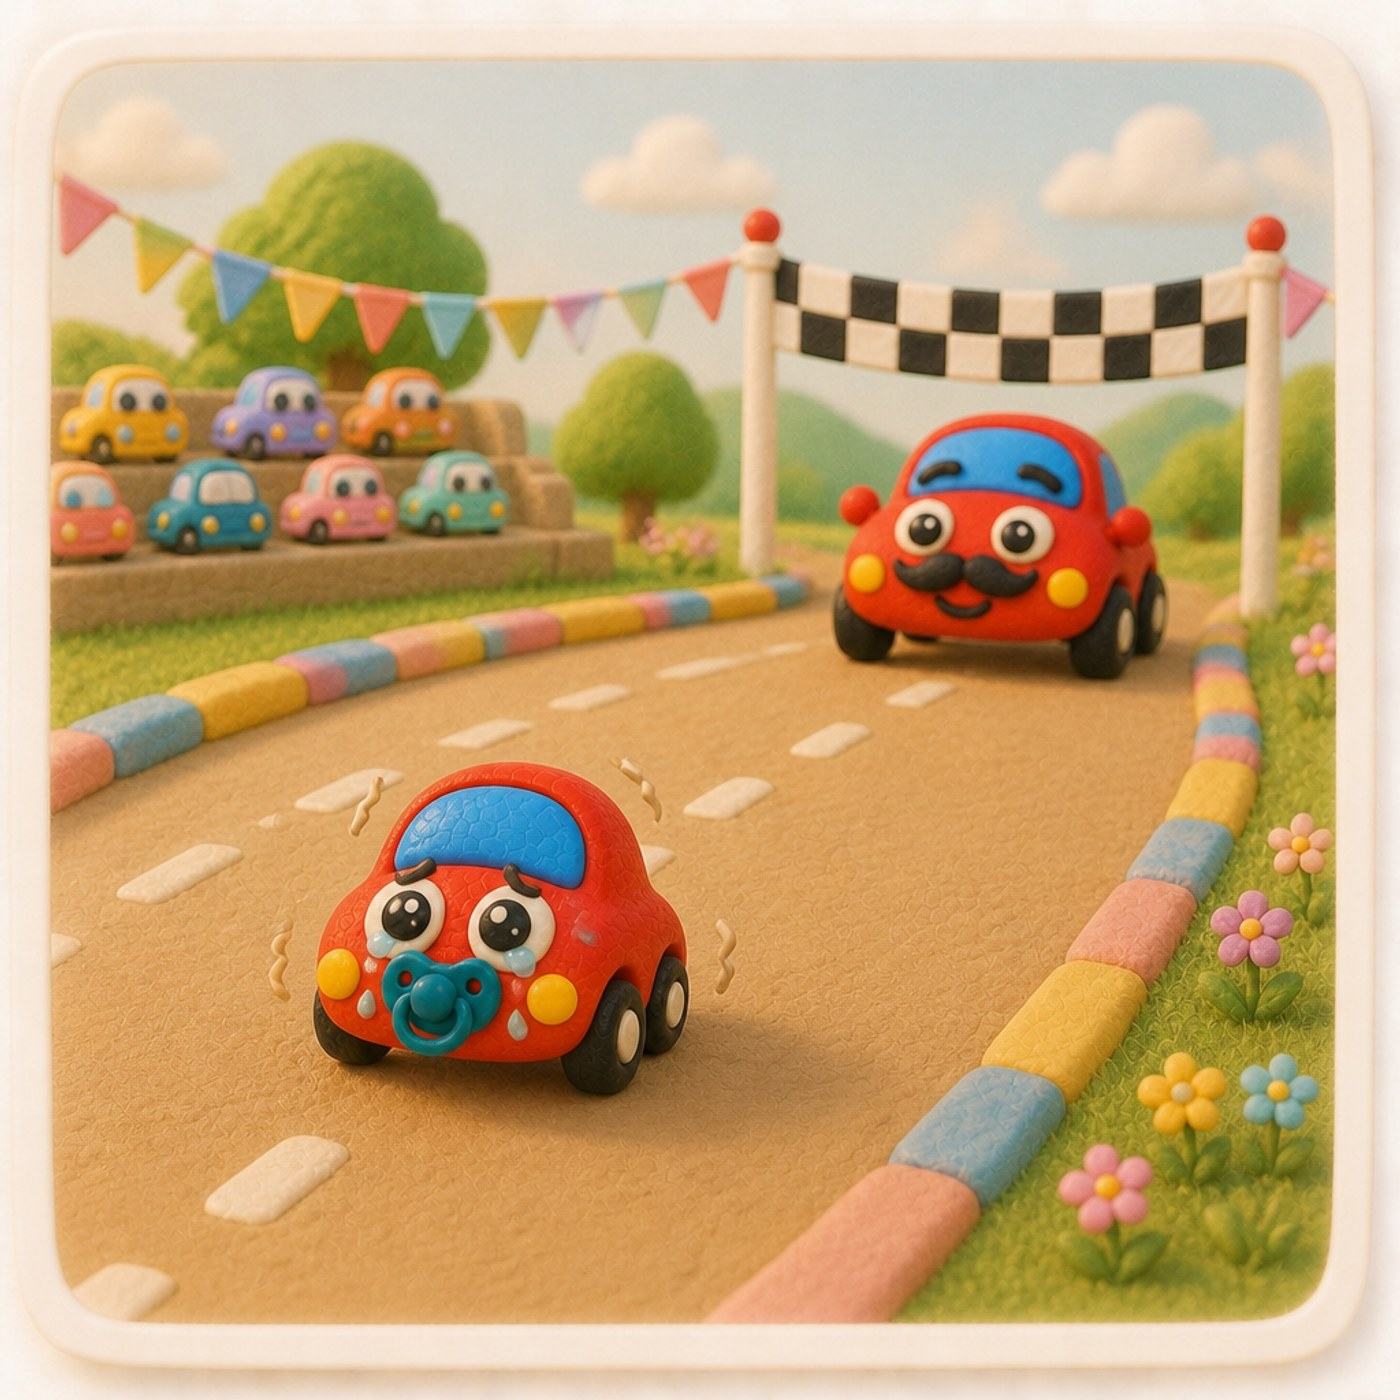
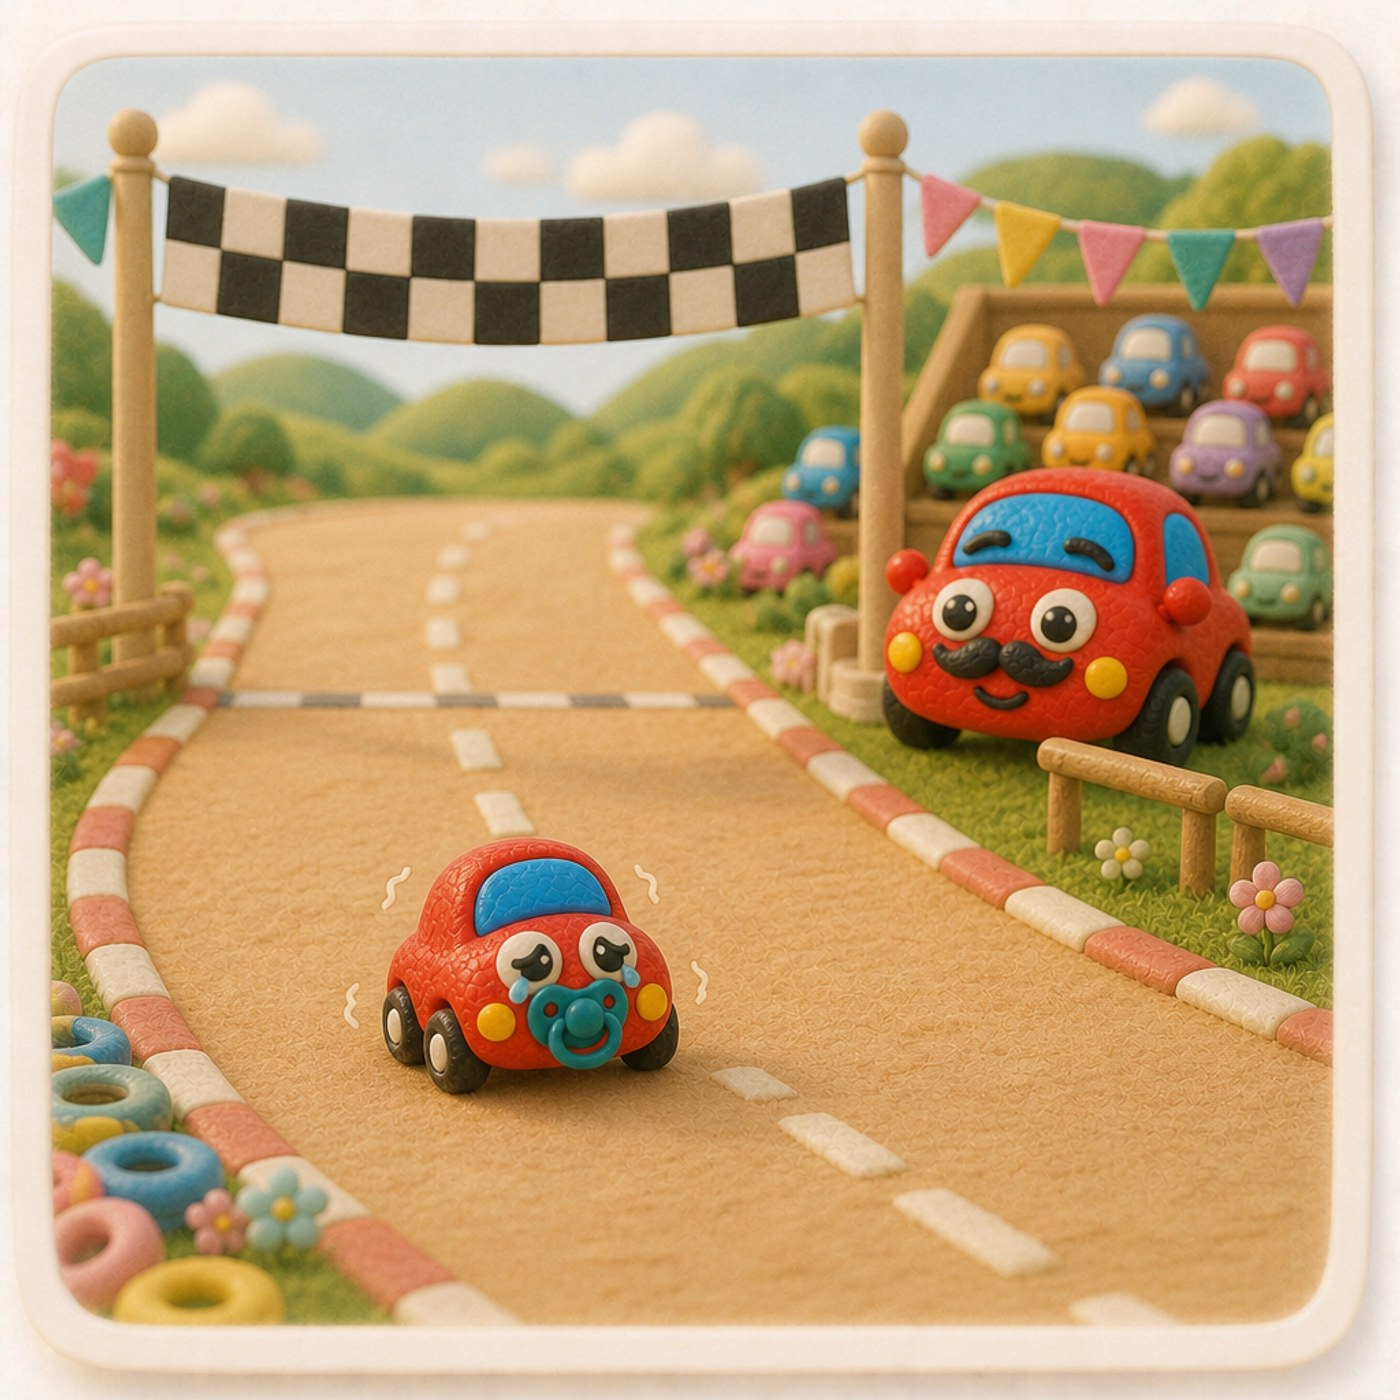
fix(stories): ep-24 #12–13 爸改站終點旁側
比賽回憶幕避免爸停在賽道中央像參賽者；改看台側加油並更新 scenes prompt。

diff --git a/TODOS.md b/TODOS.md
@@ -56,6 +56,7 @@
 | content(subtitles): ep-24 字幕校對 + `--mark`（重轉錄補尾段、刪幻覺／重複） | `0c4ccf6` |
 | content(characters): ep-24 hero 定裝「小紅賽車年幼版」「小紅賽車的爸爸年輕版」（API 2 次） | `0c4ccf6` |
 | feat(stories): ep-24 全幕 19 頁插圖 approve（分齡定裝、#15–17 重抽） | `79ca151` |
+| fix(stories): ep-24 #12–13 爸改終點旁側（非賽道中央） | 見本 commit |
 
 ### 本輪已完成（2026-08-08）
 
